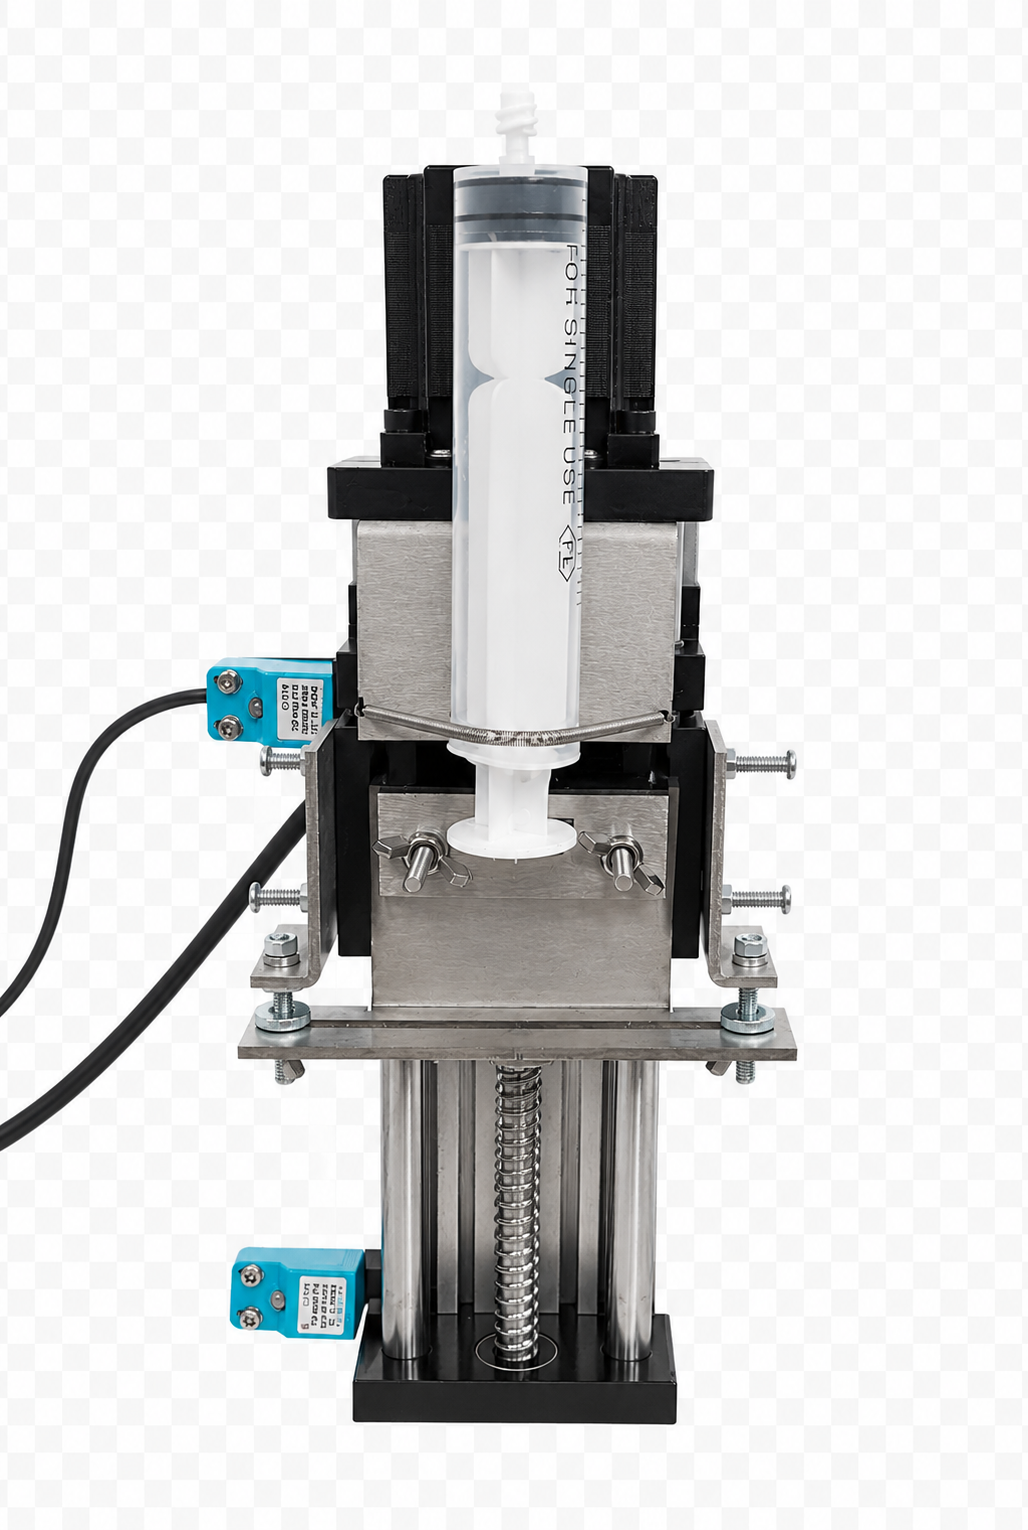
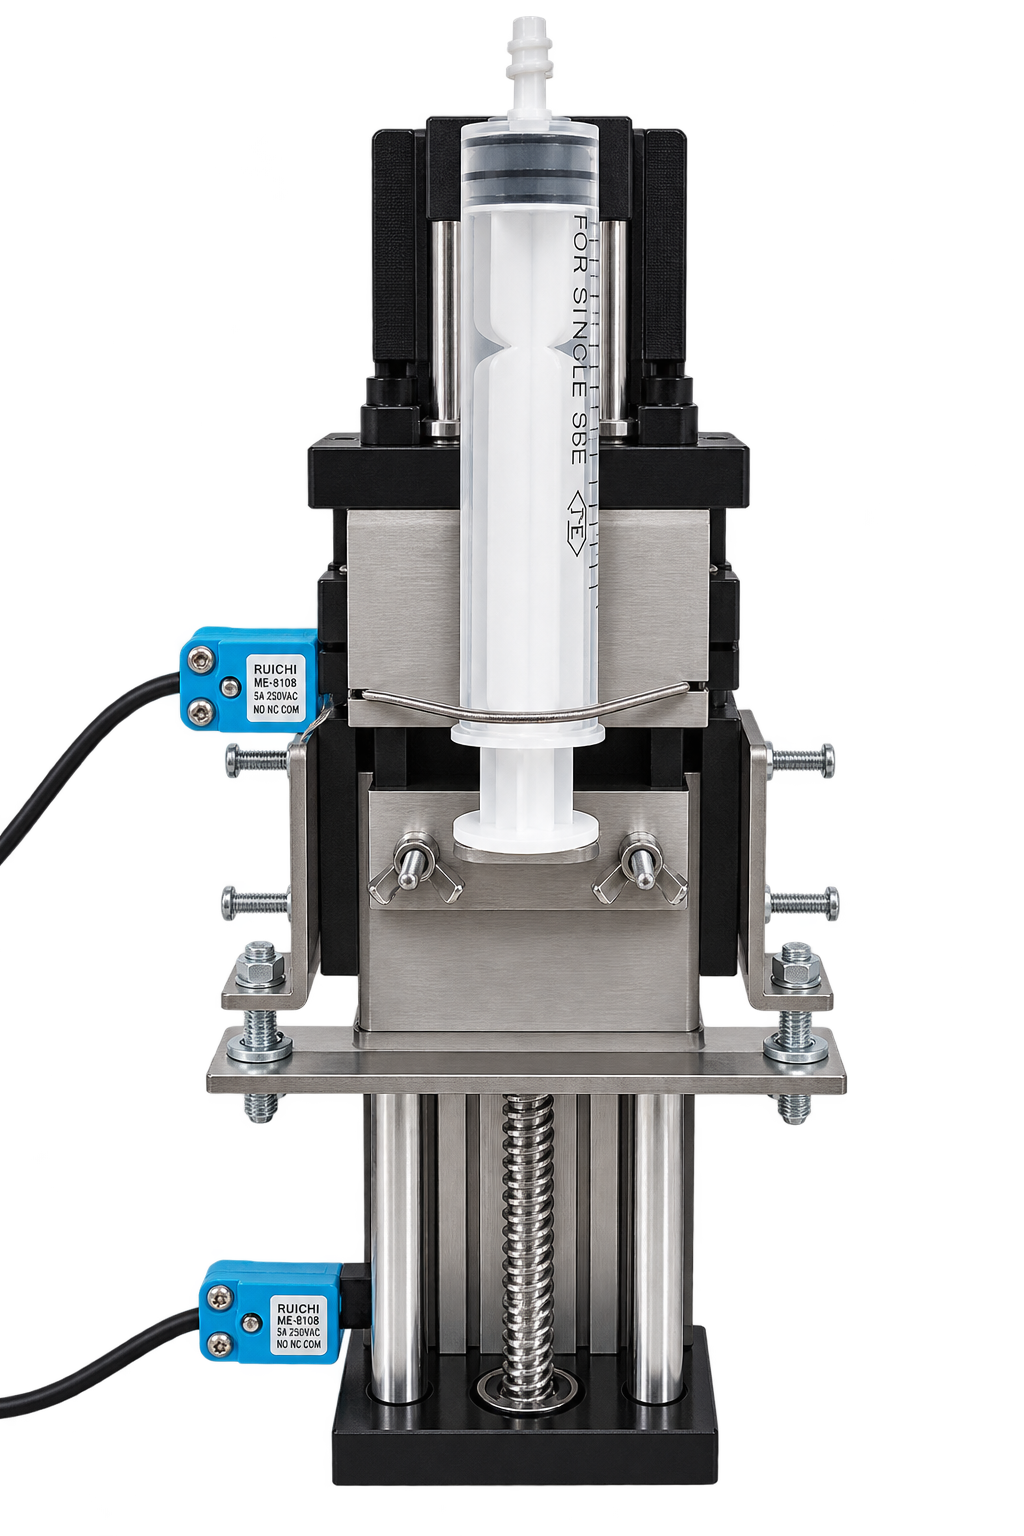
Обновить фото и дисклеймеры каталога
- Заменить фото насоса с автономным контроллером на новую версию
- Убрать слово «сгенерировано» из дисклеймера под фото товаров
- Добавить дисклеймер «фото могут отличаться от оригинала» на все
  оставшиеся страницы категорий (насосы, станции, наборы, расходка,
  чипы, услуги, субузлы)

Changed region(s): [[0.0, 0.0, 0.8438, 0.983]]

diff --git a/product/nasos-s-avtonomnym-kontrollerom/index.html b/product/nasos-s-avtonomnym-kontrollerom/index.html
@@ -115,7 +115,7 @@
   .hero-media img{
     width:100%;
     height:auto;
-    aspect-ratio:1028/1530;
+    aspect-ratio:1024/1536;
     object-fit:contain;
     display:block;
     filter:drop-shadow(0 18px 34px rgba(0,0,0,0.28));
@@ -322,8 +322,8 @@
         </div>
       </div>
       <div class="hero-media">
-        <img src="./nasos-s-avtonomnym-kontrollerom.png" alt="Насос Fluidica с автономным контроллером" width="1028" height="1530" decoding="async">
-        <p class="hero-media-note">Фото сгенерировано и может отличаться от финального изделия. Уточняйте детали по <a href="mailto:info@fluidica.ru">info@fluidica.ru</a>.</p>
+        <img src="./nasos-s-avtonomnym-kontrollerom.png" alt="Насос Fluidica с автономным контроллером" width="1024" height="1536" decoding="async">
+        <p class="hero-media-note">Фото может отличаться от финального изделия. Уточняйте детали по <a href="mailto:info@fluidica.ru">info@fluidica.ru</a>.</p>
       </div>
     </div>
   </section>

diff --git a/chip-fabrication/index.html b/chip-fabrication/index.html
@@ -177,6 +177,9 @@
   }
   .placeholder-text{color:var(--muted);font-size:15px;line-height:1.6;margin:0 0 28px;max-width:440px;margin-left:auto;margin-right:auto;}
 
+  .grid-note{color:var(--muted);font-size:13.5px;line-height:1.6;margin:20px 0 0;}
+  .grid-note a{color:var(--accent);text-decoration:underline;}
+
   .final-cta{
     background:linear-gradient(120deg, var(--primary) 0%, var(--primary-2) 100%);
     color:var(--white);text-align:center;padding:96px 0;
@@ -277,6 +280,7 @@
         <p class="placeholder-text">Мы собираем карточки для этой категории. Расскажите о задаче — подберём конфигурацию и посчитаем стоимость вручную.</p>
         <a href="/#contact" class="btn-primary">Написать нам</a>
       </div>
+      <p class="grid-note">Фото могут отличаться от оригинала. Уточняйте детали по <a href="mailto:info@fluidica.ru">info@fluidica.ru</a>.</p>
     </div>
   </section>
 

diff --git a/pumps/peristaltic/index.html b/pumps/peristaltic/index.html
@@ -177,6 +177,9 @@
   }
   .placeholder-text{color:var(--muted);font-size:15px;line-height:1.6;margin:0 0 28px;max-width:440px;margin-left:auto;margin-right:auto;}
 
+  .grid-note{color:var(--muted);font-size:13.5px;line-height:1.6;margin:20px 0 0;}
+  .grid-note a{color:var(--accent);text-decoration:underline;}
+
   .final-cta{
     background:linear-gradient(120deg, var(--primary) 0%, var(--primary-2) 100%);
     color:var(--white);text-align:center;padding:96px 0;
@@ -277,6 +280,7 @@
         <p class="placeholder-text">Мы собираем карточки для этой категории. Расскажите о задаче — подберём конфигурацию и посчитаем стоимость вручную.</p>
         <a href="/#contact" class="btn-primary">Написать нам</a>
       </div>
+      <p class="grid-note">Фото могут отличаться от оригинала. Уточняйте детали по <a href="mailto:info@fluidica.ru">info@fluidica.ru</a>.</p>
     </div>
   </section>
 

diff --git a/pumps/syringe/index.html b/pumps/syringe/index.html
@@ -177,6 +177,9 @@
   }
   .placeholder-text{color:var(--muted);font-size:15px;line-height:1.6;margin:0 0 28px;max-width:440px;margin-left:auto;margin-right:auto;}
 
+  .grid-note{color:var(--muted);font-size:13.5px;line-height:1.6;margin:20px 0 0;}
+  .grid-note a{color:var(--accent);text-decoration:underline;}
+
   .final-cta{
     background:linear-gradient(120deg, var(--primary) 0%, var(--primary-2) 100%);
     color:var(--white);text-align:center;padding:96px 0;
@@ -277,6 +280,7 @@
         <p class="placeholder-text">Мы собираем карточки для этой категории. Расскажите о задаче — подберём конфигурацию и посчитаем стоимость вручную.</p>
         <a href="/#contact" class="btn-primary">Написать нам</a>
       </div>
+      <p class="grid-note">Фото могут отличаться от оригинала. Уточняйте детали по <a href="mailto:info@fluidica.ru">info@fluidica.ru</a>.</p>
     </div>
   </section>
 

diff --git a/chips/index.html b/chips/index.html
@@ -186,6 +186,8 @@
   .product-card:hover{border-color:var(--accent);transform:translateY(-3px);}
   .product-name{font-family:var(--font-display);font-weight:700;font-size:16px;color:var(--ink);line-height:1.3;}
   .product-price{font-family:var(--font-mono);font-size:15px;color:var(--accent);}
+  .grid-note{color:var(--muted);font-size:13.5px;line-height:1.6;margin:20px 0 0;}
+  .grid-note a{color:var(--accent);text-decoration:underline;}
   @media (max-width:900px){
     .product-grid{grid-template-columns:repeat(2,1fr);}
   }
@@ -309,6 +311,7 @@
           <span class="product-price">22 500 ₽</span>
         </a>
       </div>
+      <p class="grid-note">Фото могут отличаться от оригинала. Уточняйте детали по <a href="mailto:info@fluidica.ru">info@fluidica.ru</a>.</p>
     </div>
   </section>
 

diff --git a/services/index.html b/services/index.html
@@ -186,6 +186,8 @@
   .product-card:hover{border-color:var(--accent);transform:translateY(-3px);}
   .product-name{font-family:var(--font-display);font-weight:700;font-size:16px;color:var(--ink);line-height:1.3;}
   .product-price{font-family:var(--font-mono);font-size:15px;color:var(--accent);}
+  .grid-note{color:var(--muted);font-size:13.5px;line-height:1.6;margin:20px 0 0;}
+  .grid-note a{color:var(--accent);text-decoration:underline;}
   @media (max-width:900px){
     .product-grid{grid-template-columns:repeat(2,1fr);}
   }
@@ -337,6 +339,7 @@
           <span class="product-price">11 000 ₽</span>
         </a>
       </div>
+      <p class="grid-note">Фото могут отличаться от оригинала. Уточняйте детали по <a href="mailto:info@fluidica.ru">info@fluidica.ru</a>.</p>
     </div>
   </section>
 

diff --git a/stations/index.html b/stations/index.html
@@ -186,6 +186,8 @@
   .product-card:hover{border-color:var(--accent);transform:translateY(-3px);}
   .product-name{font-family:var(--font-display);font-weight:700;font-size:16px;color:var(--ink);line-height:1.3;}
   .product-price{font-family:var(--font-mono);font-size:15px;color:var(--accent);}
+  .grid-note{color:var(--muted);font-size:13.5px;line-height:1.6;margin:20px 0 0;}
+  .grid-note a{color:var(--accent);text-decoration:underline;}
   @media (max-width:900px){
     .product-grid{grid-template-columns:repeat(2,1fr);}
   }
@@ -325,6 +327,7 @@
           <span class="product-price">72 000 ₽</span>
         </a>
       </div>
+      <p class="grid-note">Фото могут отличаться от оригинала. Уточняйте детали по <a href="mailto:info@fluidica.ru">info@fluidica.ru</a>.</p>
     </div>
   </section>
 

diff --git a/consumables/index.html b/consumables/index.html
@@ -186,6 +186,8 @@
   .product-card:hover{border-color:var(--accent);transform:translateY(-3px);}
   .product-name{font-family:var(--font-display);font-weight:700;font-size:16px;color:var(--ink);line-height:1.3;}
   .product-price{font-family:var(--font-mono);font-size:15px;color:var(--accent);}
+  .grid-note{color:var(--muted);font-size:13.5px;line-height:1.6;margin:20px 0 0;}
+  .grid-note a{color:var(--accent);text-decoration:underline;}
   @media (max-width:900px){
     .product-grid{grid-template-columns:repeat(2,1fr);}
   }
@@ -333,6 +335,7 @@
           <span class="product-price">1 400 ₽</span>
         </a>
       </div>
+      <p class="grid-note">Фото могут отличаться от оригинала. Уточняйте детали по <a href="mailto:info@fluidica.ru">info@fluidica.ru</a>.</p>
     </div>
   </section>
 

diff --git a/kits/index.html b/kits/index.html
@@ -186,6 +186,8 @@
   .product-card:hover{border-color:var(--accent);transform:translateY(-3px);}
   .product-name{font-family:var(--font-display);font-weight:700;font-size:16px;color:var(--ink);line-height:1.3;}
   .product-price{font-family:var(--font-mono);font-size:15px;color:var(--accent);}
+  .grid-note{color:var(--muted);font-size:13.5px;line-height:1.6;margin:20px 0 0;}
+  .grid-note a{color:var(--accent);text-decoration:underline;}
   @media (max-width:900px){
     .product-grid{grid-template-columns:repeat(2,1fr);}
   }
@@ -325,6 +327,7 @@
           <span class="product-price">4 500 ₽</span>
         </a>
       </div>
+      <p class="grid-note">Фото могут отличаться от оригинала. Уточняйте детали по <a href="mailto:info@fluidica.ru">info@fluidica.ru</a>.</p>
     </div>
   </section>
 

diff --git a/spare-parts/index.html b/spare-parts/index.html
@@ -186,6 +186,8 @@
   .product-card:hover{border-color:var(--accent);transform:translateY(-3px);}
   .product-name{font-family:var(--font-display);font-weight:700;font-size:16px;color:var(--ink);line-height:1.3;}
   .product-price{font-family:var(--font-mono);font-size:15px;color:var(--accent);}
+  .grid-note{color:var(--muted);font-size:13.5px;line-height:1.6;margin:20px 0 0;}
+  .grid-note a{color:var(--accent);text-decoration:underline;}
   @media (max-width:900px){
     .product-grid{grid-template-columns:repeat(2,1fr);}
   }
@@ -313,6 +315,7 @@
           <span class="product-price">3 600 ₽</span>
         </a>
       </div>
+      <p class="grid-note">Фото могут отличаться от оригинала. Уточняйте детали по <a href="mailto:info@fluidica.ru">info@fluidica.ru</a>.</p>
     </div>
   </section>
 

diff --git a/product/peristalticheskiy-mnogokanalnyy/index.html b/product/peristalticheskiy-mnogokanalnyy/index.html
@@ -323,7 +323,7 @@
       </div>
       <div class="hero-media">
         <img src="./nasos-peristalticheskiy-mnogokanalnyy.png" alt="Насос Fluidica перистальтический многоканальный" width="1254" height="1254" decoding="async">
-        <p class="hero-media-note">Фото сгенерировано и может отличаться от финального изделия. Уточняйте детали по <a href="mailto:info@fluidica.ru">info@fluidica.ru</a>.</p>
+        <p class="hero-media-note">Фото может отличаться от финального изделия. Уточняйте детали по <a href="mailto:info@fluidica.ru">info@fluidica.ru</a>.</p>
       </div>
     </div>
   </section>

diff --git a/product/peristalticheskiy-nasos-1-kan/index.html b/product/peristalticheskiy-nasos-1-kan/index.html
@@ -323,7 +323,7 @@
       </div>
       <div class="hero-media">
         <img src="./nasos-peristalticheskiy-1-kanalnyy.png" alt="Насос Fluidica перистальтический 1-канальный" width="1254" height="1254" decoding="async">
-        <p class="hero-media-note">Фото сгенерировано и может отличаться от финального изделия. Уточняйте детали по <a href="mailto:info@fluidica.ru">info@fluidica.ru</a>.</p>
+        <p class="hero-media-note">Фото может отличаться от финального изделия. Уточняйте детали по <a href="mailto:info@fluidica.ru">info@fluidica.ru</a>.</p>
       </div>
     </div>
   </section>
